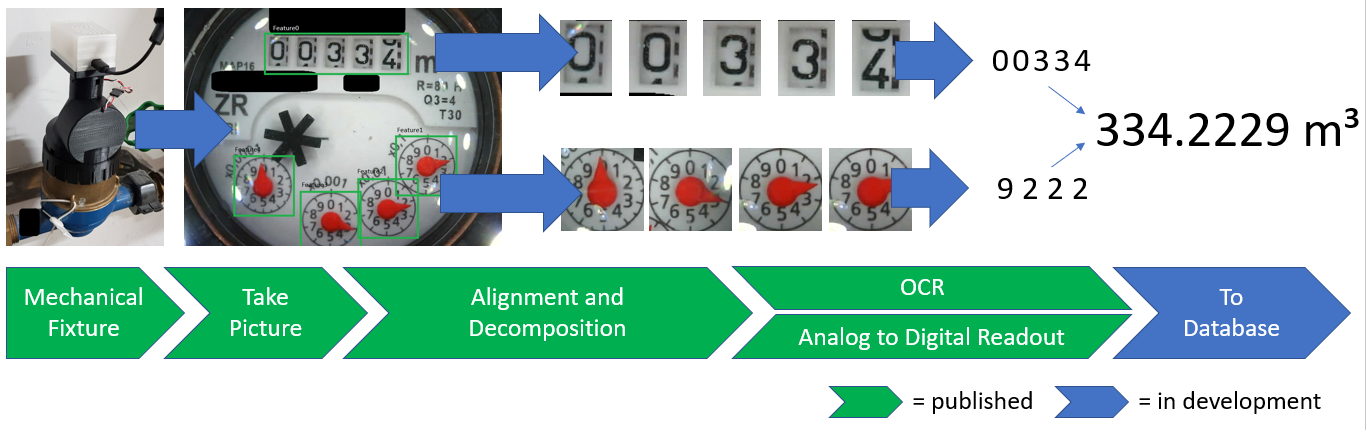
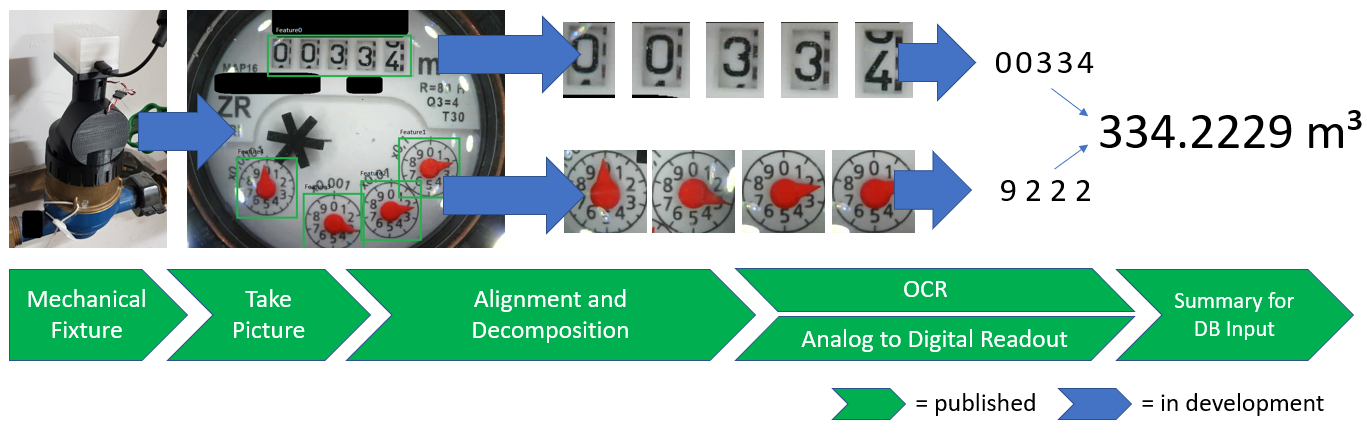
Update

diff --git a/README.md b/README.md
@@ -15,4 +15,7 @@ The system consists of a hardware fixture and and successiv software code to tra
 | Alignment and decomposition |	Image processing with OpenCV library to extract the needed features  | [https://github.com/jomjol/water-meter-image-cut](https://github.com/jomjol/water-meter-image-cut) |
 | OCR for full digits |	Usage for OCR to extract the m³ part of the water meter  | [https://github.com/jomjol/neural-network-digital-counter-readout](https://github.com/jomjol/neural-network-digital-counter-readout) |
 | Analog to Digital Readout |	Usage of a Neural Network to digitalize analog pointers | [https://github.com/jomjol/neural-network-analog-needle-readout](https://github.com/jomjol/neural-network-analog-needle-readout) |
-| To Database |	Process digitalized numbers and insert into a database | n.a. |
+| Summary for DB Input | Process digitalized numbers and convert to m³ value | Full server with all previous steps included: [https://github.com/jomjol/water-meter-system-complete](https://github.com/jomjol/water-meter-system-complete) |
+
+
+The last repository [https://github.com/jomjol/water-meter-system-complete](https://github.com/jomjol/water-meter-system-complete) contains all previous steps (image cutting, Analog and Digital Readout) and combines them to a full functional server to extract the water meter reading from an image as input.
